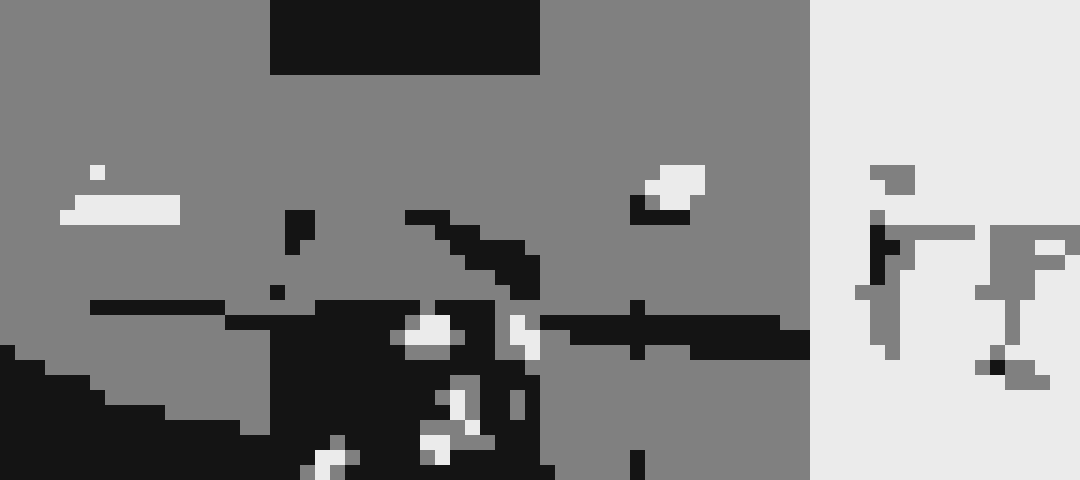
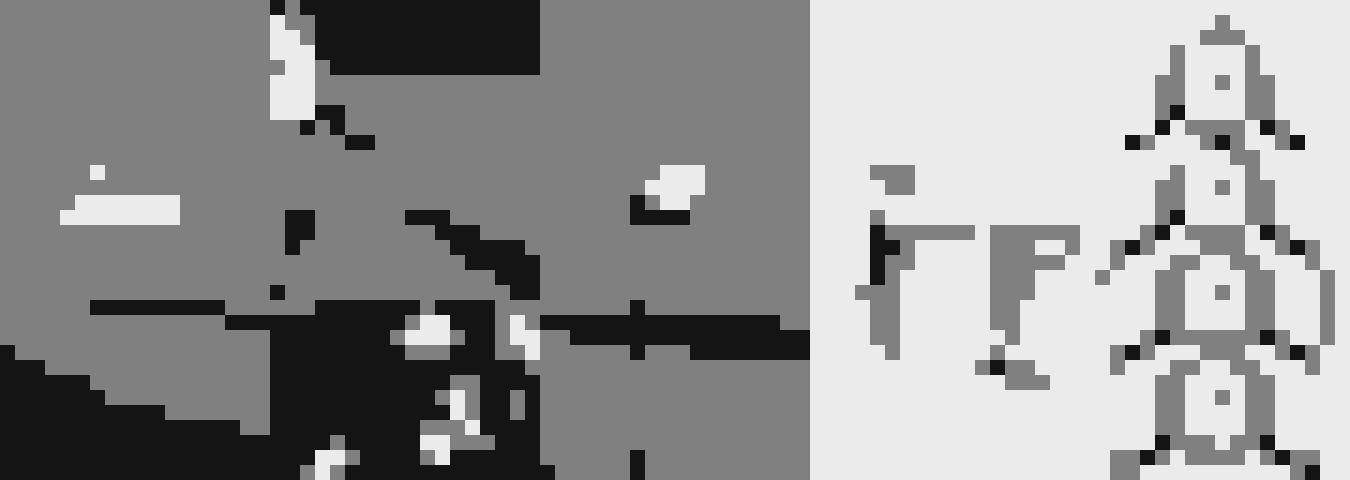
review: styleframes [skip ci]

diff --git a/review/styleframes/critique.md b/review/styleframes/critique.md
@@ -1,17 +1,17 @@
-# Style frame critique (generated by tools/stills.mjs, commit 51008b6)
+# Style frame critique (generated by tools/stills.mjs, commit b226bf5)
 
 Facts from tools/measure.mjs; regenerated on every stills run.
 
 ## F1_aerial: Aerial frame 0: telephoto from the iceberg's crest, the ship three-quarter at 850 m (focus: ship midships)
-- lumaMean 86.9, dark40 12.1%, p5 20, p95 136 MISS, sat 0.297
+- lumaMean 87.0, dark40 12.1%, p5 20, p95 136 MISS, sat 0.297
 - notan dark 19.1% / mid 78.1% / light 2.8% (dark-mass WARN)
 - brightest cluster 11 cells, peak luma 230, 0 cells from the focus anchor (ok)
 - image: https://github.com/NeatKnight18586/inktime/raw/renders/renders/styleframes/F1_aerial.png
 
-## F2_lookout: Lookout at 2 s: the hands and the deck lamps are the brightest; Fleet dark at the left (focus: hands and deck lamps)
-- lumaMean 68.0 MISS, dark40 32.9%, p5 20, p95 175, sat 0.414
-- notan dark 48.3% / mid 48.6% / light 3.1%
-- brightest cluster 2 cells, peak luma 239, 9 cells from the focus anchor (WARN)
+## F2_lookout: Lookout at 2 s: the hands and the deck lamps are the brightest; Fleet dark at the left, Tick floating above his head line (focus: hands and deck lamps)
+- lumaMean 71.2, dark40 34.9%, p5 20, p95 193, sat 0.403
+- notan dark 46.9% / mid 47.0% / light 6.1%
+- brightest cluster 2 cells, peak luma 239, 4 cells from the focus anchor (WARN)
 - image: https://github.com/NeatKnight18586/inktime/raw/renders/renders/styleframes/F2_lookout.png
 
 ## F3_money: Money shot: subjective snap zoom to vFOV 20, iceberg at 457 m centred at 40% height, the bow out of frame (insert: p5 and dark40 do not apply)
@@ -21,17 +21,22 @@ Facts from tools/measure.mjs; regenerated on every stills run.
 - image: https://github.com/NeatKnight18586/inktime/raw/renders/renders/styleframes/F3_money.png
 
 ## F4_day: Day proof: Fleet and Lee on a plain deck at a 3/4 camera angle, sun from the upper right, shadows on the planks (focus: both characters)
-- lumaMean 191.1, dark40 3.8%, p5 52, p95 222, sat 0.230
-- notan dark 1.0% / mid 10.1% / light 88.9% (dark-mass WARN)
+- lumaMean 191.3, dark40 3.7%, p5 53, p95 222, sat 0.230
+- notan dark 1.0% / mid 10.2% / light 88.7% (dark-mass WARN)
 - brightest cluster 4 cells, peak luma 245, 5 cells from the focus anchor (WARN)
 - image: https://github.com/NeatKnight18586/inktime/raw/renders/renders/styleframes/F4_day.png
 
+## F5_tick_day: Tick close-up in day light: the four expressions top to bottom (calm 10:10, alert 12:00, sad 8:20, worried 9:15), countdown ring at 34/40 (focus: the faces)
+- lumaMean 174.3, dark40 12.9%, p5 20, p95 241, sat 0.227
+- notan dark 3.5% / mid 24.8% / light 71.7% (dark-mass WARN)
+- brightest cluster 13 cells, peak luma 244, 1 cells from the focus anchor (ok)
+- image: https://github.com/NeatKnight18586/inktime/raw/renders/renders/styleframes/F5_tick_day.png
+
 ## See-through test: PASS
-sampled 92195 pixels inside the card body (mask eroded 10 px); 0 differ between striped and plain wall (max channel diff 0, tolerance 8)
+card body: PASS, sampled 92195 pixels inside (mask eroded 10 px); 0 differ between striped and plain wall (max channel diff 0, tolerance 8) sound word: PASS, sampled 13572 pixels inside (mask eroded 10 px); 0 differ between striped and plain wall (max channel diff 0, tolerance 8)
 
 ## Open
 - F1_aerial: overall p95
-- F2_lookout: overall lumaMean
 - F3_money: overall lumaMean, overall p95
 
 Contact sheet: https://github.com/NeatKnight18586/inktime/raw/renders/renders/styleframes/contact.jpg
